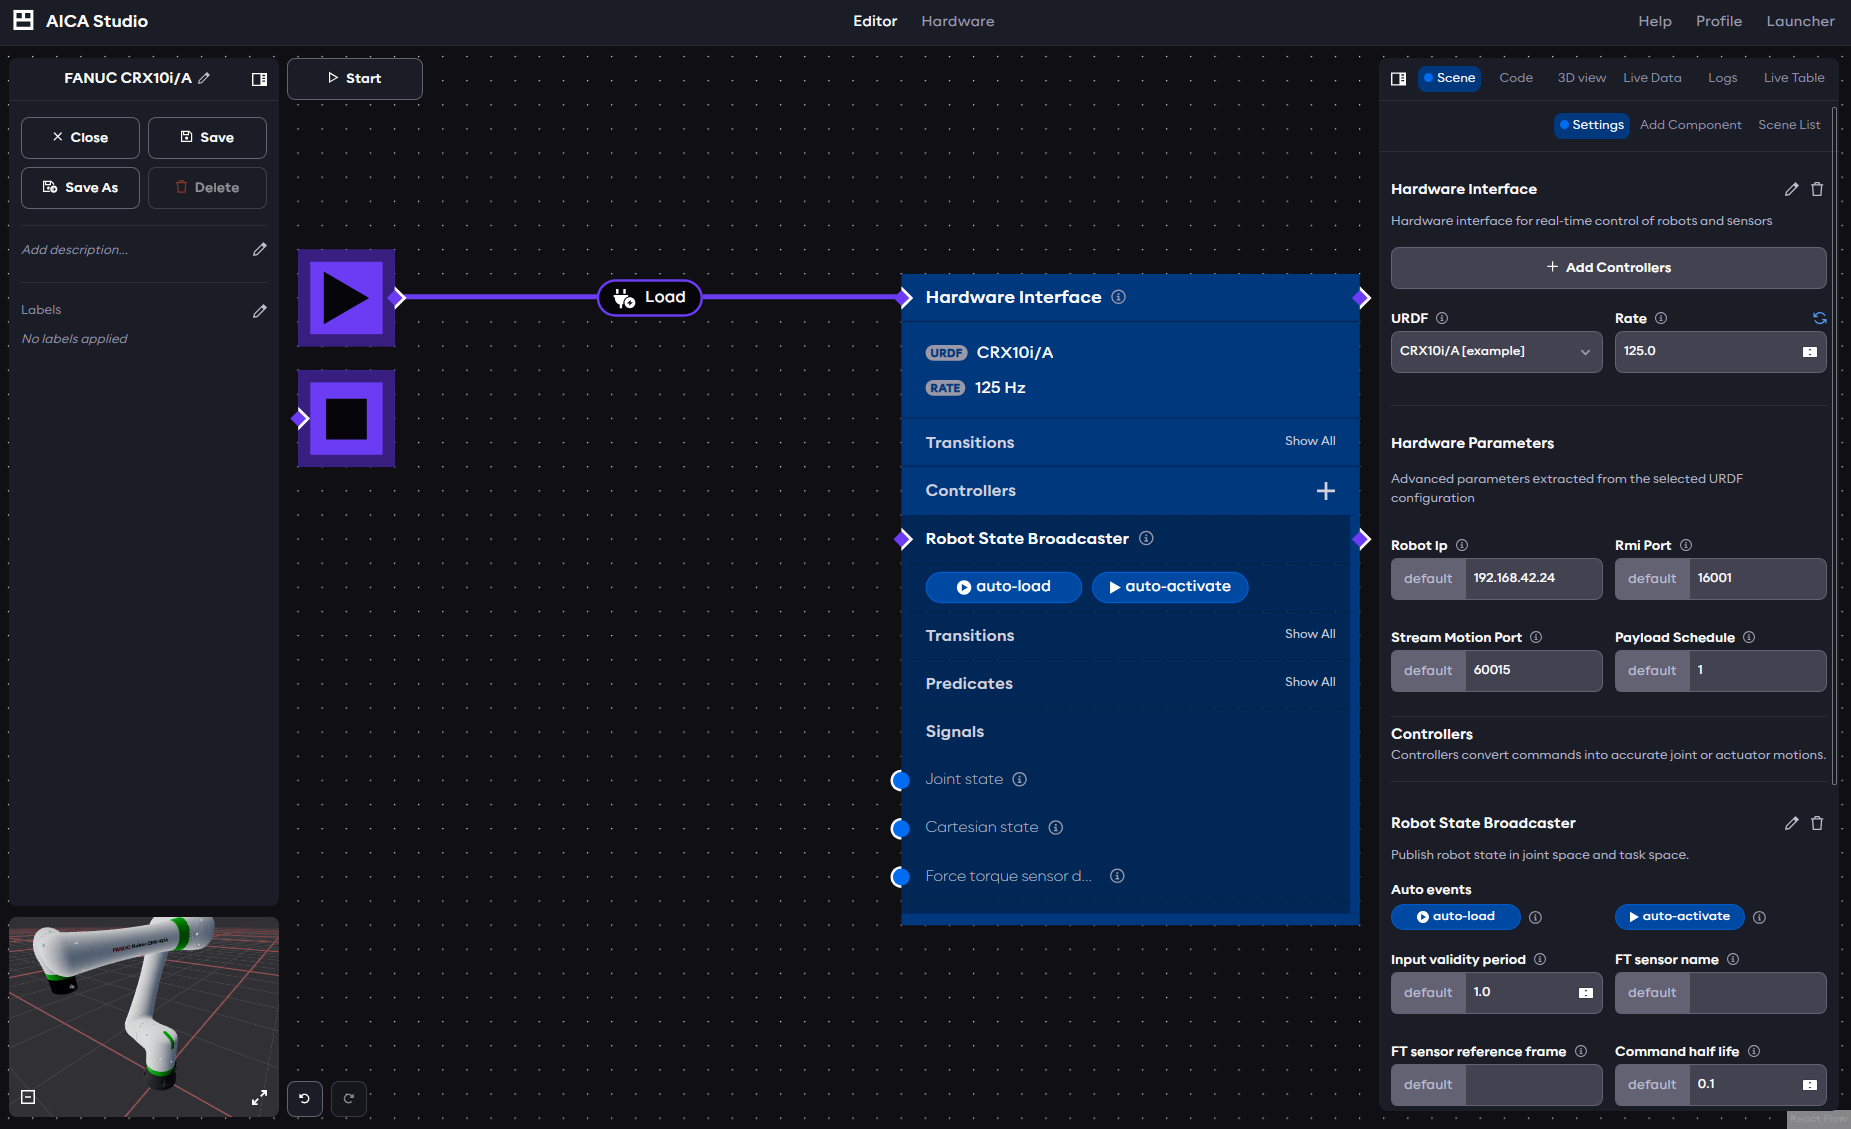
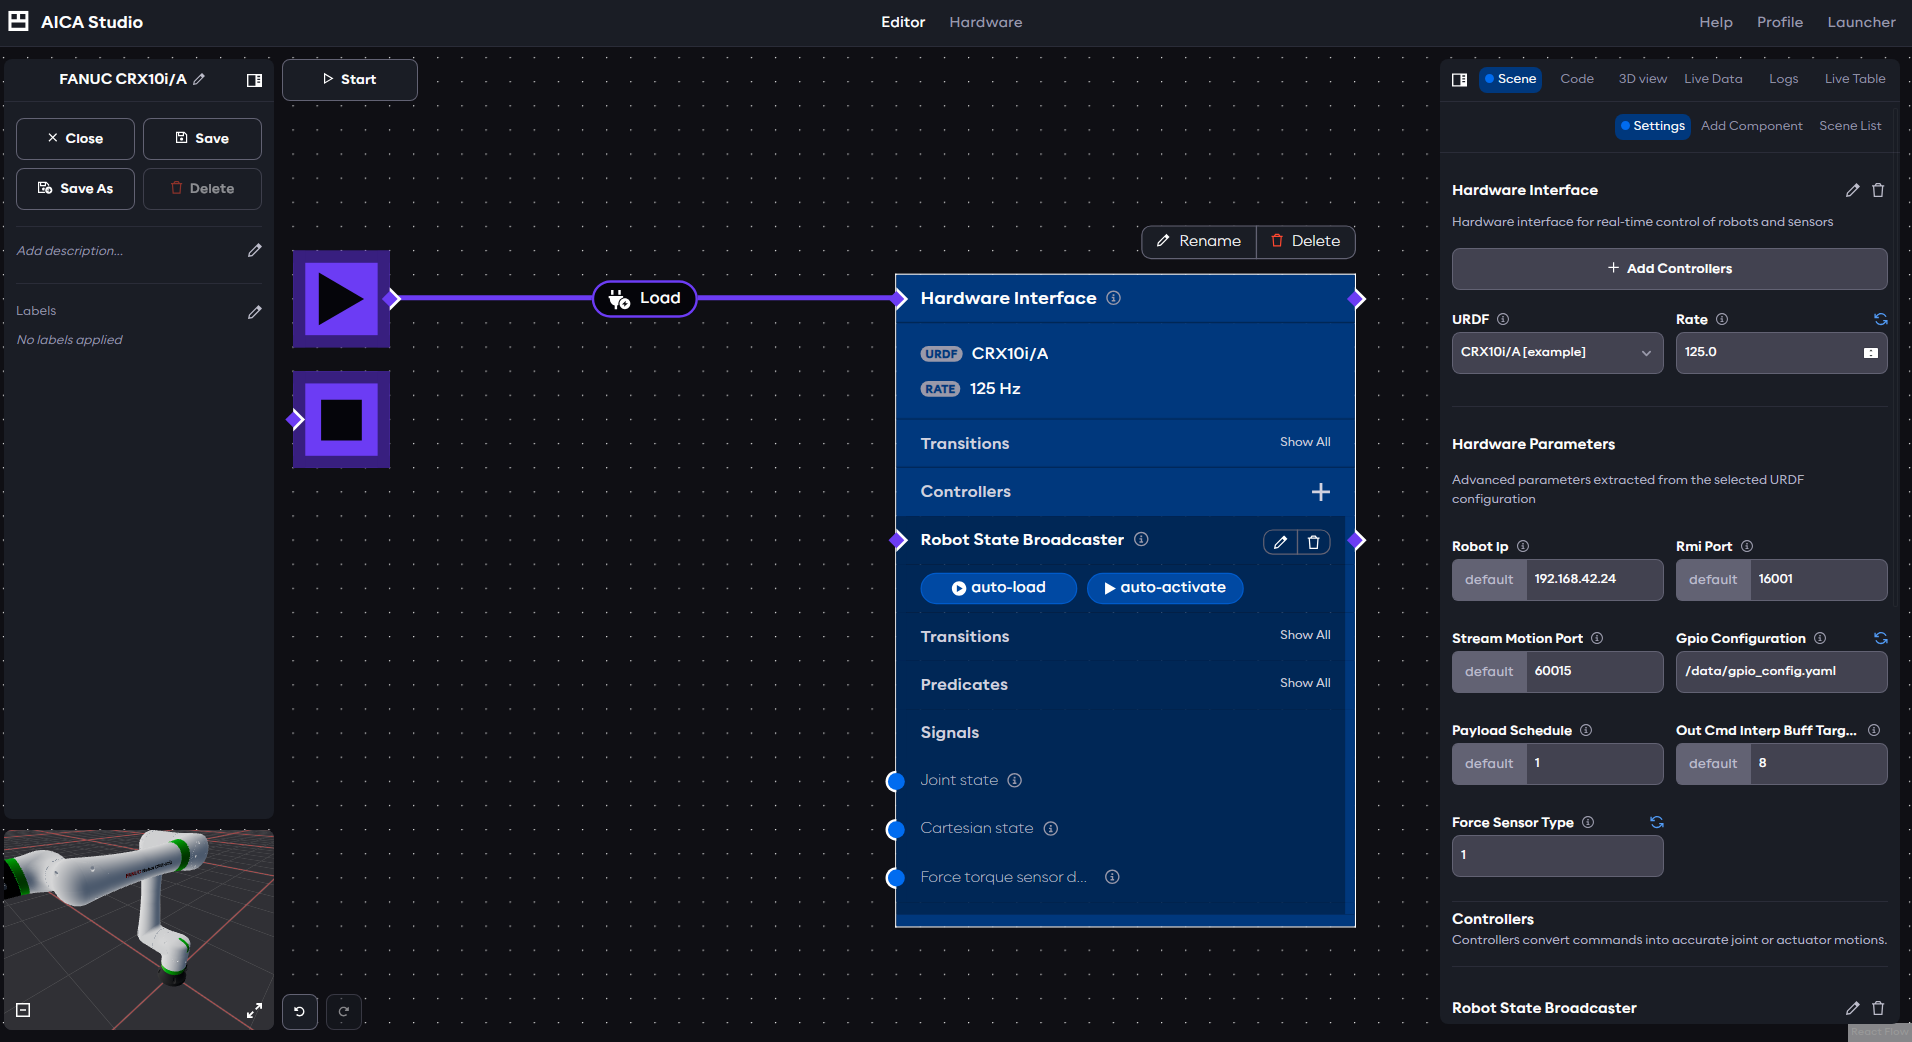
docs: update fanuc guide (#475)
---------

diff --git a/docs/core/examples/guides/fanuc-hardware-interface.md b/docs/core/examples/guides/fanuc-hardware-interface.md
@@ -34,9 +34,9 @@ As stated in the documentation, J568 and J570 are no longer required.
 
 :::
 
-To use the FANUC collection, add `collections/fanuc` **v1.0.0** to your configuration in AICA Launcher, currently
-supporting the CRX-10iA. Other robot models can be added on request. Simply reach out to the AICA support team for
-further information.
+To use the FANUC collection, add the latest version of `collections/fanuc` to your configuration in AICA Launcher,
+currently supporting the CRX-10iA and the M-10𝑖D/12. Other robot models can be added on request. Simply reach out to the
+AICA support team for further information.
 
 ## Connecting to a robot
 
@@ -70,6 +70,112 @@ robot:
 - Robot IP: the IP address of the robot 
 - RMI port: the port of the Remote Motion Interface (keep default unless otherwise configured on the robot controller)
 - Stream Motion Port: the port of Stream Motion (keep default unless otherwise configured on the robot controller)
+- GPIO configuration (v1.1.0 and above): an absolute path to a YAML file containing the GPIOs that should be configured
+  (see more information below)
 - Payload Schedule: the number of the payload to be set on the robot
+- Out Cmd Interp Buff Target: Output command interpolation buffer target size for stream motion control
+- Force Sensor Type (v1.1.0 and above): The type of force torque sensor to configure (see more information below)
 
 Click **Start** to start the application and connect to the robot. 
+
+### GPIO configuration
+
+Selected robot controller GPIO topics support high-frequency update. The update rate is up to the robot controller
+sampling rate. The selection of high-frequency updated GPIOs is configured through a YAML configuration file before
+the driver starts. For detailed description, refer to the relevant sections in the
+[official documentation](https://fanuc-corporation.github.io/fanuc_driver_doc/main/docs/fanuc_driver/controller_usage.html#configuring-high-frequency-i-o).
+
+:::note
+
+The official documentation states the behavior as follows:
+
+> When outputs or numeric registers are added to the command section of the GPIO configuration YAML file, once the ROS 2
+  driver is launched those output and numeric register values in the controller will be set to false or zero.
+
+However, the version of the driver provided by AICA takes additional care **not** to overwrite the value of the GPIOs on startup,
+and instead persists the initial value set on the robot controller.
+
+:::
+
+A example configuration of a GPIO configuration file could look as follows:
+
+```yaml
+gpio_topic_config:
+  io_state:
+    - type: DI
+      start: 101
+      length: 3
+    - type: DO
+      start: 101
+      length: 1
+  io_cmd:
+    - type: DO
+      start: 101
+      length: 2
+```
+
+This configuration claims reads interfaces
+- DI[101], DI[102], and DI[103] (`start` is 101 and `length` is 3)
+- DO[101] (`start` is 101 and `length` is 1)
+
+and writes to interfaces
+- DO[101] and DO[102] (`start` is 101 and `length` is 2)
+
+In order for this configuration to be accepted by the hardware interface, it is necessary to add matching state and
+command interfaces to the `ros2_control` section of the URDF as follows:
+
+```xml
+  <ros2_control>
+    <!-- keep existing parts of ros2_control -->
+    <gpio name="DI">
+      <state_interface name="101"/>
+      <state_interface name="102"/>
+      <state_interface name="103"/>
+    </gpio>
+
+    <gpio name="DO">
+      <state_interface name="101"/>
+      <command_interface name="101"/>
+      <command_interface name="102"/>
+    </gpio>
+  </ros2_control>
+```
+
+### Force torque sensor configuration
+
+Starting with driver version `collections/fanuc:v1.1.0` and robot controller software V9.40/P85, it is possible to read 
+force torque sensor values directly from the robot. The type of force sensor can be configured through the `force_sensor_type`
+hardware parameter. Available types are:
+
+- 0: Unselected
+- 1: Embedded: for all CRX models with inbuilt sensor
+- 2: External: for robots with an external FANUC force torque sensor mounted at the flange
+
+:::note
+
+Users without software V9.40/P85 should keep the type at 0 to be able to start the hardware interface.
+
+:::
+
+When the `force_sensor_type` is set to 1 or 2, the URDF must include the following `sensor` interfaces within the `ros2_control` 
+element.
+
+```xml
+  <ros2_control>
+    <!-- keep existing parts of ros2_control -->
+    <sensor name="ft_sensor">
+      <state_interface name="force.x"/>
+      <state_interface name="force.y"/>
+      <state_interface name="force.z"/>
+      <state_interface name="torque.x"/>
+      <state_interface name="torque.y"/>
+      <state_interface name="torque.z"/>
+    </sensor>
+  </ros2_control>
+```
+
+:::warning
+
+The URDF must not include these interfaces if using `collections/fanuc:v1.0.0` or if the `force_sensor_type` is set to 0.
+
+:::
